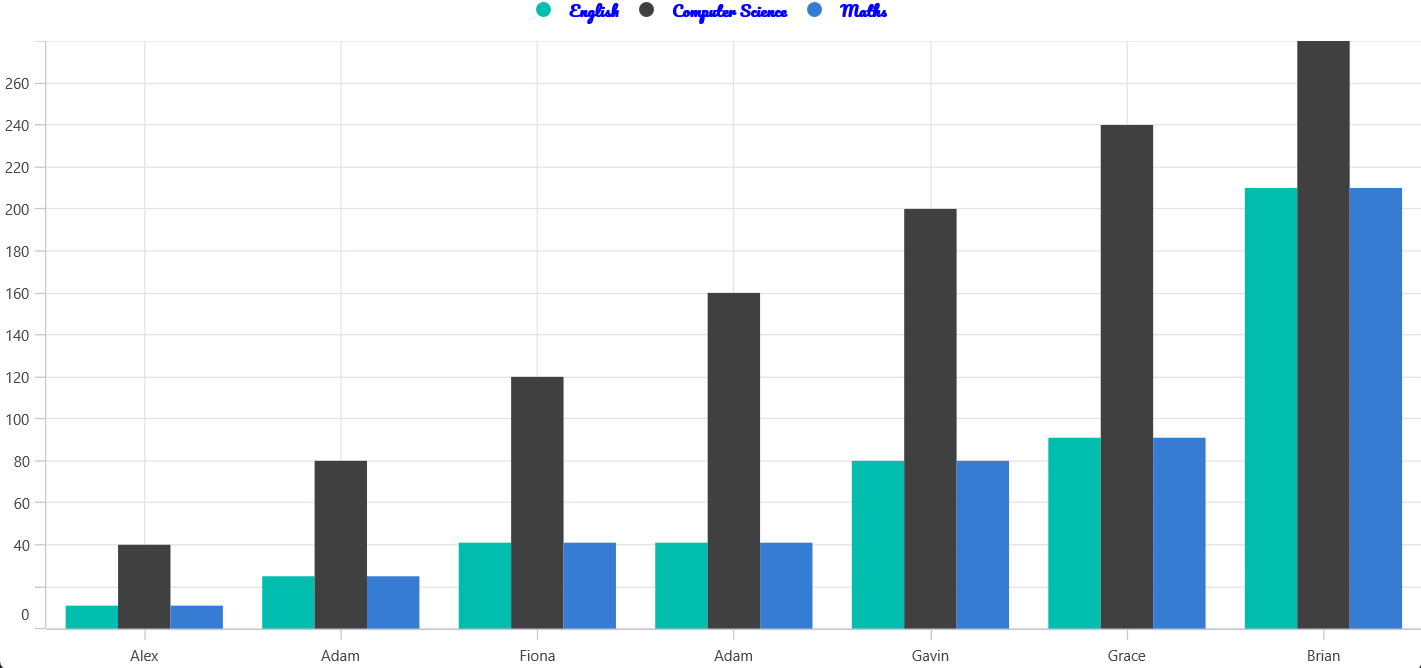
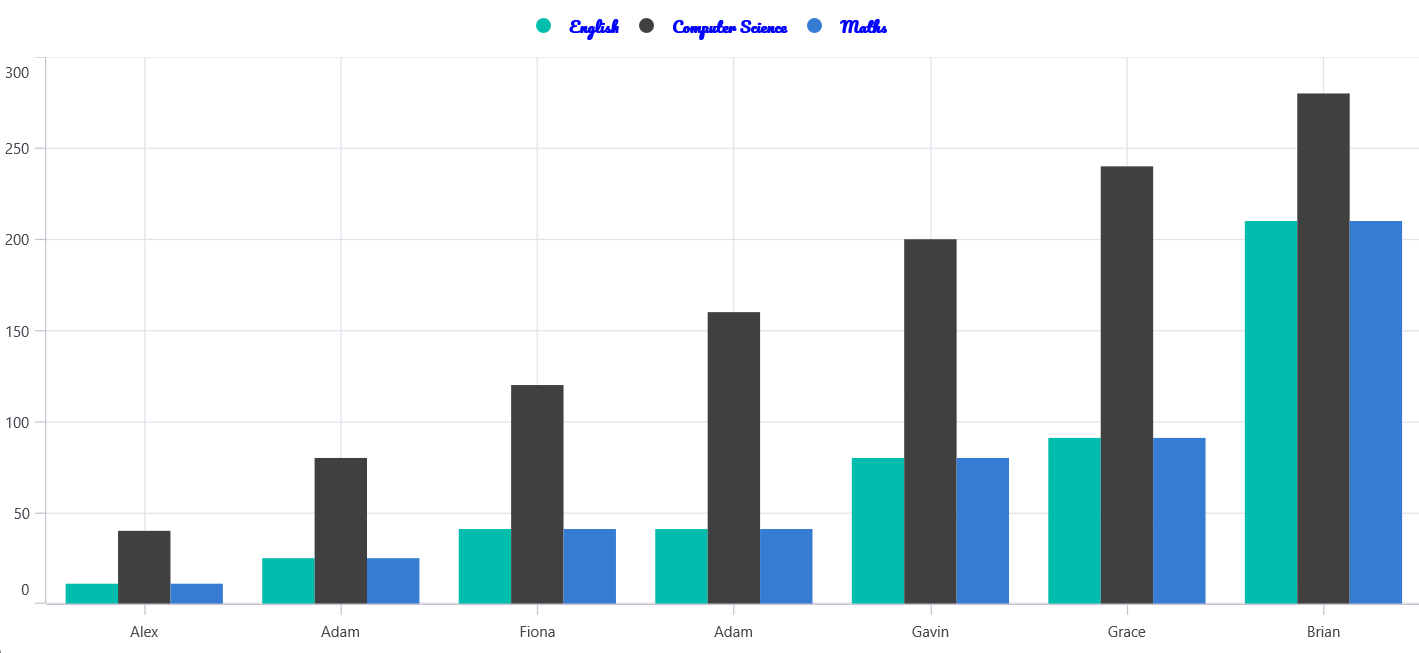
Added legend label style

diff --git a/MAUI/Polar-Charts/Legend.md b/MAUI/Polar-Charts/Legend.md
@@ -124,6 +124,47 @@ this.Content = chart;
 
 {% endtabs %}
 
+## Customizing labels
+
+The [`Label`](https://help.syncfusion.com/cr/maui/Syncfusion.Maui.Charts.PolarSeries.html#Syncfusion_Maui_Charts_PolarSeries_Label) property of [`PolarSeries`](https://help.syncfusion.com/cr/maui/Syncfusion.Maui.Charts.PolarSeries.html) is used to define the label for the corresponding polar series legend item. The appearance of the label can be customized using the [`LabelStyle`]() property. 
+
+* [`TextColor`]() – used to change the color of the label.
+* [`FontFamily`]() - used to change the font family for the legend label. 
+* [`FontAttributes`]() - used to change the font style for the legend label. 
+* [`FontSize`]() - used to change the font size for the legend label.
+* [`Margin`]() - used to change the margin size of labels.
+
+{% tabs %} 
+
+{% highlight xaml %}
+
+<chart:SfPolarChart>
+    <chart:SfPolarChart.Legend>
+        <chart:ChartLegend>
+            <chart:ChartLegend.LabelStyle>
+                <chart:ChartLegendLabelStyle TextColor="Blue" Margin="5" FontSize="18" FontAttributes="Bold" FontFamily="Pacifico-Regular"/>
+            </chart:ChartLegend.LabelStyle>
+        </chart:ChartLegend>
+    </chart:SfPolarChart.Legend>
+</chart:SfPolarChart>
+
+{% endhighlight %}
+
+{% highlight c# %}
+
+chart.Legend = new ChartLegend();
+chart.Legend.LabelStyle.TextColor = Color.Blue;
+chart.Legend.LabelStyle.FontSize = 18;
+chart.Legend.LabelStyle.FontAttributes = FontAttributes.Bold;
+chart.Legend.LabelStyle.Margin = 5;
+chart.Legend.LabelStyle.FontFamily = "Pacifico-Regular";
+
+{% endhighlight %}
+
+{% endtabs %}
+
+![Legend labels customization support in Maui Chart](Legend-images/legend_label_style.png)
+
 ## Legend icon
 To specify the legend icon based on the associated series type, use the [LegendIcon](https://help.syncfusion.com/cr/maui/Syncfusion.Maui.Charts.ChartSeries.html#Syncfusion_Maui_Charts_ChartSeries_LegendIcon) property and change its type using the [ChartLegendIconType](https://help.syncfusion.com/cr/maui/Syncfusion.Maui.Charts.ChartLegendIconType.html) enum values. The default value of the LegendIcon property is `Circle`.
 
@@ -459,6 +500,23 @@ this.Content = chart;
 {% endtabs %}
 
 ![Legend layout for polar chart](Legend-images/polar_chart.png)
+
+## Event 
+
+**LegendItemCreated**
+
+The [`LegendItemCreated`]() event is triggered when the chart legend item is created. This argument contains the following information.
+
+* [`LegendItem`]() – Used to customize the label and appearance of individual legend item. 
+* [`TextColor`]() – used to change the color of the label.
+* [`FontFamily`]() - used to change the font family for the legend label. 
+* [`FontAttributes`]() - used to change the font style for the legend label. 
+* [`FontSize`]() - used to change the font size for the legend label.
+* [`Margin`]() - used to change the margin size of labels.
+* [`IconBrush`]() - used to change the color of the legend icon.
+* [`IconType`]() - used to change the icon type for the legend icon.
+* [`IconHeight`]() - used to change the icon height of the legend icon.
+* [`IconWidth`]() - used to change the icon width of the legend icon.
 
 ## Limitations
 * Do not add items explicitly.

diff --git a/MAUI/Funnel-Charts/Legend.md b/MAUI/Funnel-Charts/Legend.md
@@ -82,6 +82,56 @@ this.Content = chart;
 
 {% endtabs %}
 
+## Customizing labels
+
+The appearance of the legend label can be customized using the [`LabelStyle`]() property. 
+
+* [`TextColor`]() – used to change the color of the label.
+* [`FontFamily`]() - used to change the font family for the legend label. 
+* [`FontAttributes`]() - used to change the font style for the legend label. 
+* [`FontSize`]() - used to change the font size for the legend label.
+* [`Margin`]() - used to change the margin size of labels.
+
+{% tabs %} 
+
+{% highlight xaml %}
+
+<chart:SfFunnelChart ItemsSource="{Binding Data}" 
+                      XBindingPath="Name"
+                      YBindingPath="Height">
+    <chart:SfFunnelChart .Legend>
+        <chart:ChartLegend>
+            <chart:ChartLegend.LabelStyle>
+                <chart:ChartLegendLabelStyle TextColor="Blue" Margin="5" FontSize="18" FontAttributes="Bold" FontFamily="Pacifico-Regular"/>
+            </chart:ChartLegend.LabelStyle>
+        </chart:ChartLegend>
+    </chart:SfFunnelChart .Legend>
+</chart:SfFunnelChart >
+
+{% endhighlight %}
+
+{% highlight c# %}
+
+SfFunnelChart chart = new SfFunnelChart()
+{
+    XBindingPath = "Name",
+    YBindingPath = "Height",
+    ItemsSource = new ViewModel().Data,
+};
+
+chart.Legend = new ChartLegend();
+chart.Legend.LabelStyle.TextColor = Color.Blue;
+chart.Legend.LabelStyle.FontSize = 18;
+chart.Legend.LabelStyle.FontAttributes = FontAttributes.Bold;
+chart.Legend.LabelStyle.Margin = 5;
+chart.Legend.LabelStyle.FontFamily = "Pacifico-Regular";
+
+{% endhighlight %}
+
+{% endtabs %}
+
+![Legend labels customization support in Maui Chart](Legend-images/legend_label_style.png)
+
 ## Legend icon
 To specify the legend icon based on the associated series type, use the [LegendIcon](https://help.syncfusion.com/cr/maui/Syncfusion.Maui.Charts.SfFunnelChart.html#Syncfusion_Maui_Charts_SfFunnelChart_LegendIcon) property and change its type using the [ChartLegendIconType](https://help.syncfusion.com/cr/maui/Syncfusion.Maui.Charts.ChartLegendIconType.html) enum values. The default value of the LegendIcon property is `Circle`.
 
@@ -286,6 +336,23 @@ this.Content = chart;
 {% endtabs %}
 
 ![Legend layout for funnel chart](Legend-images/funnel_chart.png)
+
+## Event 
+
+**LegendItemCreated**
+
+The [`LegendItemCreated`]() event is triggered when the chart legend item is created. This argument contains the following information.
+
+* [`LegendItem`]() – Used to customize the label and appearance of individual legend item. 
+* [`TextColor`]() – used to change the color of the label.
+* [`FontFamily`]() - used to change the font family for the legend label. 
+* [`FontAttributes`]() - used to change the font style for the legend label. 
+* [`FontSize`]() - used to change the font size for the legend label.
+* [`Margin`]() - used to change the margin size of labels.
+* [`IconBrush`]() - used to change the color of the legend icon.
+* [`IconType`]() - used to change the icon type for the legend icon.
+* [`IconHeight`]() - used to change the icon height of the legend icon.
+* [`IconWidth`]() - used to change the icon width of the legend icon.
 
 ## Limitations
 * Do not add items explicitly.

diff --git a/MAUI/Pyramid-Charts/Legend.md b/MAUI/Pyramid-Charts/Legend.md
@@ -82,6 +82,56 @@ this.Content = chart;
 
 {% endtabs %}
 
+## Customizing labels
+
+The appearance of the legend label can be customized using the [`LabelStyle`]() property. 
+
+* [`TextColor`]() – used to change the color of the label.
+* [`FontFamily`]() - used to change the font family for the legend label. 
+* [`FontAttributes`]() - used to change the font style for the legend label. 
+* [`FontSize`]() - used to change the font size for the legend label.
+* [`Margin`]() - used to change the margin size of labels.
+
+{% tabs %} 
+
+{% highlight xaml %}
+
+<chart:SfPyramidChart ItemsSource="{Binding Data}" 
+                      XBindingPath="Name"
+                      YBindingPath="Height">
+    <chart:SfPyramidChart .Legend>
+        <chart:ChartLegend>
+            <chart:ChartLegend.LabelStyle>
+                <chart:ChartLegendLabelStyle TextColor="Blue" Margin="5" FontSize="18" FontAttributes="Bold" FontFamily="Pacifico-Regular"/>
+            </chart:ChartLegend.LabelStyle>
+        </chart:ChartLegend>
+    </chart:SfPyramidChart .Legend>
+</chart:SfPyramidChart >
+
+{% endhighlight %}
+
+{% highlight c# %}
+
+SfPyramidChart chart = new SfPyramidChart()
+{
+    XBindingPath = "Name",
+    YBindingPath = "Height",
+    ItemsSource = new ViewModel().Data,
+};
+
+chart.Legend = new ChartLegend();
+chart.Legend.LabelStyle.TextColor = Color.Blue;
+chart.Legend.LabelStyle.FontSize = 18;
+chart.Legend.LabelStyle.FontAttributes = FontAttributes.Bold;
+chart.Legend.LabelStyle.Margin = 5;
+chart.Legend.LabelStyle.FontFamily = "Pacifico-Regular";
+
+{% endhighlight %}
+
+{% endtabs %}
+
+![Legend labels customization support in Maui Chart](Legend-images/legend_label_style.png)
+
 ## Legend icon
 To specify the legend icon based on associate series type using the [LegendIcon](https://help.syncfusion.com/cr/maui/Syncfusion.Maui.Charts.SfPyramidChart.html#Syncfusion_Maui_Charts_SfPyramidChart_LegendIcon) and change its type using [ChartLegendIconType](https://help.syncfusion.com/cr/maui/Syncfusion.Maui.Charts.ChartLegendIconType.html) enum values. The default value of the LegendIcon property is `Circle`.
 
@@ -290,6 +340,23 @@ this.Content = chart;
 {% endtabs %}
 
 ![Legend layout for pyramid chart](Legend-images/pyramid_chart.png)
+
+## Event 
+
+**LegendItemCreated**
+
+The [`LegendItemCreated`]() event is triggered when the chart legend item is created. This argument contains the following information.
+
+* [`LegendItem`]() – Used to customize the label and appearance of individual legend item. 
+* [`TextColor`]() – used to change the color of the label.
+* [`FontFamily`]() - used to change the font family for the legend label. 
+* [`FontAttributes`]() - used to change the font style for the legend label. 
+* [`FontSize`]() - used to change the font size for the legend label.
+* [`Margin`]() - used to change the margin size of labels.
+* [`IconBrush`]() - used to change the color of the legend icon.
+* [`IconType`]() - used to change the icon type for the legend icon.
+* [`IconHeight`]() - used to change the icon height of the legend icon.
+* [`IconWidth`]() - used to change the icon width of the legend icon.
 
 ## Limitations
 * Do not add items explicitly.

diff --git a/MAUI/Circular-Charts/Legend.md b/MAUI/Circular-Charts/Legend.md
@@ -106,6 +106,47 @@ this.Content = chart;
 
 {% endtabs %}
 
+## Customizing labels
+
+The appearance of the legend label can be customized using the [`LabelStyle`]() property. 
+
+* [`TextColor`]() – used to change the color of the label.
+* [`FontFamily`]() - used to change the font family for the legend label. 
+* [`FontAttributes`]() - used to change the font style for the legend label. 
+* [`FontSize`]() - used to change the font size for the legend label.
+* [`Margin`]() - used to change the margin size of labels.
+
+{% tabs %} 
+
+{% highlight xaml %}
+
+<chart:SfCircularChart>
+    <chart:SfCircularChart.Legend>
+        <chart:ChartLegend>
+            <chart:ChartLegend.LabelStyle>
+                <chart:ChartLegendLabelStyle TextColor="Blue" Margin="5" FontSize="18" FontAttributes="Bold" FontFamily="Pacifico-Regular"/>
+            </chart:ChartLegend.LabelStyle>
+        </chart:ChartLegend>
+    </chart:SfCircularChart.Legend>
+</chart:SfCircularChart>
+
+{% endhighlight %}
+
+{% highlight c# %}
+
+chart.Legend = new ChartLegend();
+chart.Legend.LabelStyle.TextColor = Color.Blue;
+chart.Legend.LabelStyle.FontSize = 18;
+chart.Legend.LabelStyle.FontAttributes = FontAttributes.Bold;
+chart.Legend.LabelStyle.Margin = 5;
+chart.Legend.LabelStyle.FontFamily = "Pacifico-Regular";
+
+{% endhighlight %}
+
+{% endtabs %}
+
+![Legend labels customization support in Maui Chart](Legend-images/legend_label_style.png)
+
 ## Legend icon
 To specify the legend icon based on the associated series type, use the [LegendIcon](https://help.syncfusion.com/cr/maui/Syncfusion.Maui.Charts.ChartSeries.html#Syncfusion_Maui_Charts_ChartSeries_LegendIcon) property and change its type using the [ChartLegendIconType](https://help.syncfusion.com/cr/maui/Syncfusion.Maui.Charts.ChartLegendIconType.html) enum values. The default value of the LegendIcon property is `Circle`.
 
@@ -329,6 +370,23 @@ this.Content = chart;
 {% endtabs %}
 
 ![Legend layout for circular chart](Legend-images/circular_chart.png)
+
+## Event 
+
+**LegendItemCreated**
+
+The [`LegendItemCreated`]() event is triggered when the chart legend item is created. This argument contains the following information.
+
+* [`LegendItem`]() – Used to customize the label and appearance of individual legend item. 
+* [`TextColor`]() – used to change the color of the label.
+* [`FontFamily`]() - used to change the font family for the legend label. 
+* [`FontAttributes`]() - used to change the font style for the legend label. 
+* [`FontSize`]() - used to change the font size for the legend label.
+* [`Margin`]() - used to change the margin size of labels.
+* [`IconBrush`]() - used to change the color of the legend icon.
+* [`IconType`]() - used to change the icon type for the legend icon.
+* [`IconHeight`]() - used to change the icon height of the legend icon.
+* [`IconWidth`]() - used to change the icon width of the legend icon.
 
 ## Limitations
 * Do not add items explicitly.

diff --git a/MAUI/Cartesian-Charts/Legend.md b/MAUI/Cartesian-Charts/Legend.md
@@ -109,7 +109,6 @@ this.Content=chart;
 The [`Label`](https://help.syncfusion.com/cr/maui/Syncfusion.Maui.Charts.CartesianSeries.html#Syncfusion_Maui_Charts_CartesianSeries_Label) property of [`CartesianSeries`](https://help.syncfusion.com/cr/maui/Syncfusion.Maui.Charts.CartesianSeries.html) is used to define the label for the corresponding series legend item. The appearance of the label can be customized using the [`LabelStyle`]() property. 
 
 * [`TextColor`]() – used to change the color of the label.
-* [`Font`]() – used to change the text size, font family, and font weight. (This is deprecated API. Use FontSize, FontFamily, and FontAttributes properties instead of this.)
 * [`FontFamily`]() - used to change the font family for the legend label. 
 * [`FontAttributes`]() - used to change the font style for the legend label. 
 * [`FontSize`]() - used to change the font size for the legend label.
@@ -365,6 +364,23 @@ this.Content = chart;
 {% endtabs %}
 
 ![Legend layout for cartesian chart](Legend-images/cartesian_chart.png)
+
+## Event 
+
+**LegendItemCreated**
+
+The [`LegendItemCreated`]() event is triggered when the chart legend item is created. This argument contains the following information.
+
+* [`LegendItem`]() – Used to customize the label and appearance of individual legend item. 
+* [`TextColor`]() – used to change the color of the label.
+* [`FontFamily`]() - used to change the font family for the legend label. 
+* [`FontAttributes`]() - used to change the font style for the legend label. 
+* [`FontSize`]() - used to change the font size for the legend label.
+* [`Margin`]() - used to change the margin size of labels.
+* [`IconBrush`]() - used to change the color of the legend icon.
+* [`IconType`]() - used to change the icon type for the legend icon.
+* [`IconHeight`]() - used to change the icon height of the legend icon.
+* [`IconWidth`]() - used to change the icon width of the legend icon.
 
 ## Limitations
 * Do not add items explicitly.
